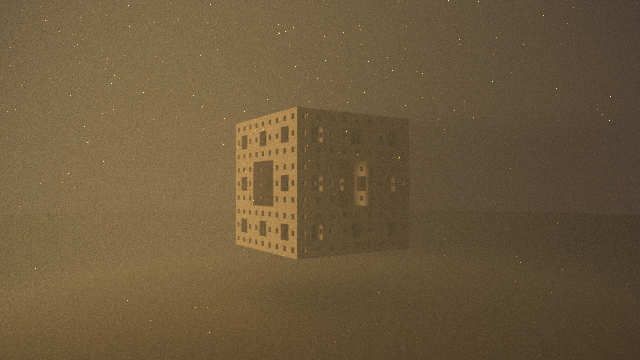
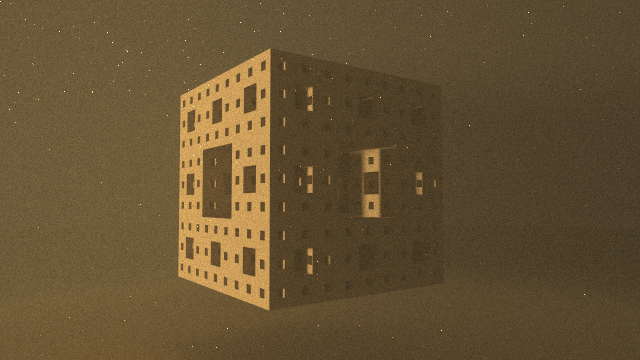
feat: Fractal temple seen from inside its haze, under a smaller, lower sun
The ball of haze showed its edge against the dark around it. The camera
now stands inside it, the haze is thinner and darker, the sun smaller,
lower and brighter, the sand lighter. The shafts through the holes stay
faint: krt's haze scatters light evenly in all directions, and shafts
need the strong forward scattering of real haze.

Changed region(s): [[0.0, 0.0, 0.75, 0.8556]]

diff --git a/src/test/kotlin/krt/scenes/ShowcaseScenes.kt b/src/test/kotlin/krt/scenes/ShowcaseScenes.kt
@@ -239,21 +239,22 @@ object ShowcaseScenes {
 
     /**
      * Fractal temple: a Menger sponge of three levels in a ball of thin haze, a low sun at 3000 K behind it whose
-     * light falls through the holes in shafts, and sand underfoot.
+     * light falls through the holes, and sand underfoot; the camera stands inside the haze.
      */
     fun temple(): BuiltScene {
         val stone = Lambert(c(0.62, 0.5, 0.38))
-        val sand = Lambert(c(0.5, 0.38, 0.25))
-        val haze = Medium.grey(0.17, c(0.92, 0.9, 0.86))
+        val sand = Lambert(c(0.66, 0.52, 0.36))
+        val haze = Medium.grey(0.11, c(0.7, 0.68, 0.64))
         val objects = listOf(
             Sphere(p(0.0, -1000.0, 0.0), 1000.0, sand, "Sand"),
             Fractal(FractalKind.MENGER, p(0.0, 1.45, 0.0), 1.45, stone, "Menger temple", iterations = 3),
-            Fog(p(0.0, 1.2, 0.0), 4.2, haze, "Haze"),
-            Sphere(p(-30.0, 3.5, 45.0), 4.0, Emissive.kelvin(3000.0, 170.0), "Sun"),
+            // The camera stands inside the haze, so its edge never shows as a ball.
+            Fog(p(0.0, 1.2, 0.0), 4.5, haze, "Haze"),
+            Sphere(p(-30.0, 2.2, 45.0), 1.6, Emissive.kelvin(3000.0, 1400.0), "Sun"),
         )
         val look = SceneLook(
-            Sky(c(0.09, 0.05, 0.035), c(0.01, 0.012, 0.03)), fov = 42.0, aperture = 0.0, sampleLights = true,
-            start = StartView(p(5.2, 1.4, 3.4), p(-0.3, 1.5, -0.2)),
+            Sky(c(0.03, 0.017, 0.012), c(0.002, 0.003, 0.008)), fov = 42.0, aperture = 0.0, sampleLights = true,
+            start = StartView(p(3.4, 1.3, 2.3), p(-0.2, 1.5, -0.3)),
         )
         return BuiltScene("temple", objects, look)
     }

diff --git a/src/main/kotlin/krt/domain/camera/model/FlightPath.kt b/src/main/kotlin/krt/domain/camera/model/FlightPath.kt
@@ -101,7 +101,7 @@ object Flights {
     private val PRISM = swing(Point3(2.0, 1.15, 1.95), Point3(0.0, 1.0, 0.0))
     private val BUBBLES = swing(Point3(0.6, 1.9, 5.2), Point3(0.0, 1.2, 0.0))
     private val CANDLE = swing(Point3(0.2, 1.0, 2.6), Point3(0.0, 0.5, 0.0))
-    private val TEMPLE = swing(Point3(5.2, 1.4, 3.4), Point3(-0.3, 1.5, -0.2))
+    private val TEMPLE = swing(Point3(3.4, 1.3, 2.3), Point3(-0.2, 1.5, -0.3))
     private val METALS = swing(Point3(0.2, 2.0, 5.6), Point3(0.0, 0.45, 0.0))
 
     fun of(scene: DemoScene): FlightPath = when (scene) {
